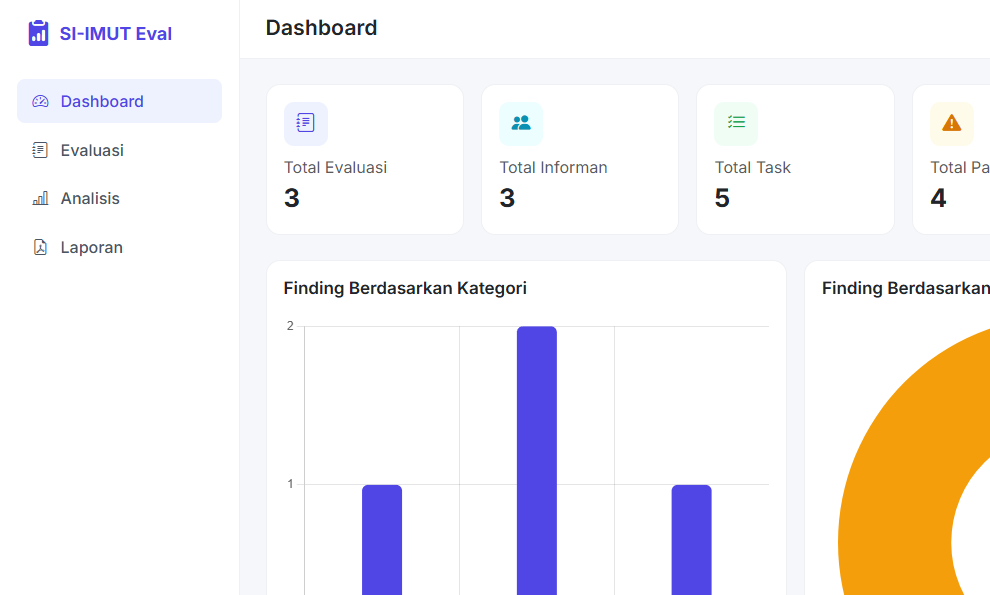
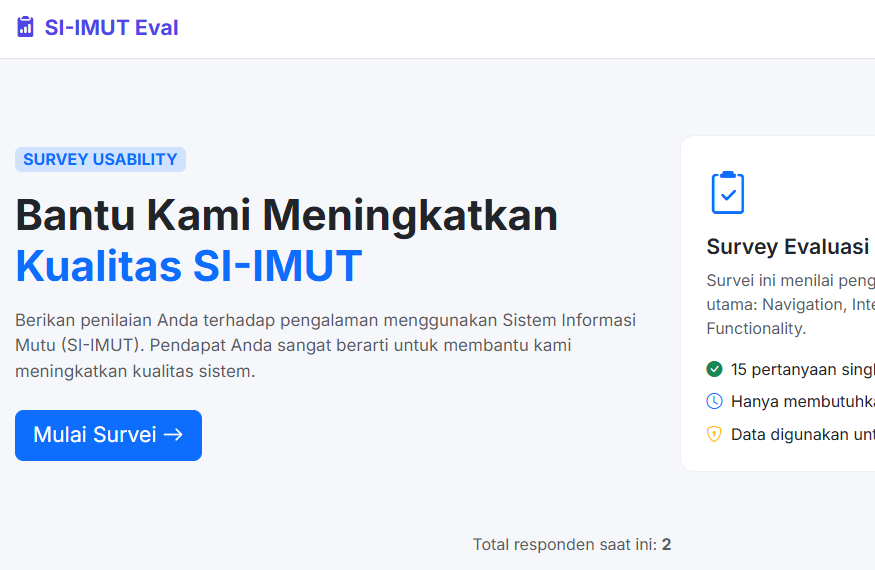
Update photo project SI-IMUT Eval

diff --git a/index.html b/index.html
@@ -550,8 +550,7 @@
               </div>
             </article>
 
-            <!--
-            <article class="project-card reveal">
+            <!-- <article class="project-card reveal">
               <div class="project-card__thumb">
                 <img
                   src=""
@@ -586,8 +585,8 @@
                   >
                 </div>
               </div>
-            </article>
-            -->
+            </article> -->
+
             <!--
             <article class="project-card reveal">
               <div class="project-card__thumb">
